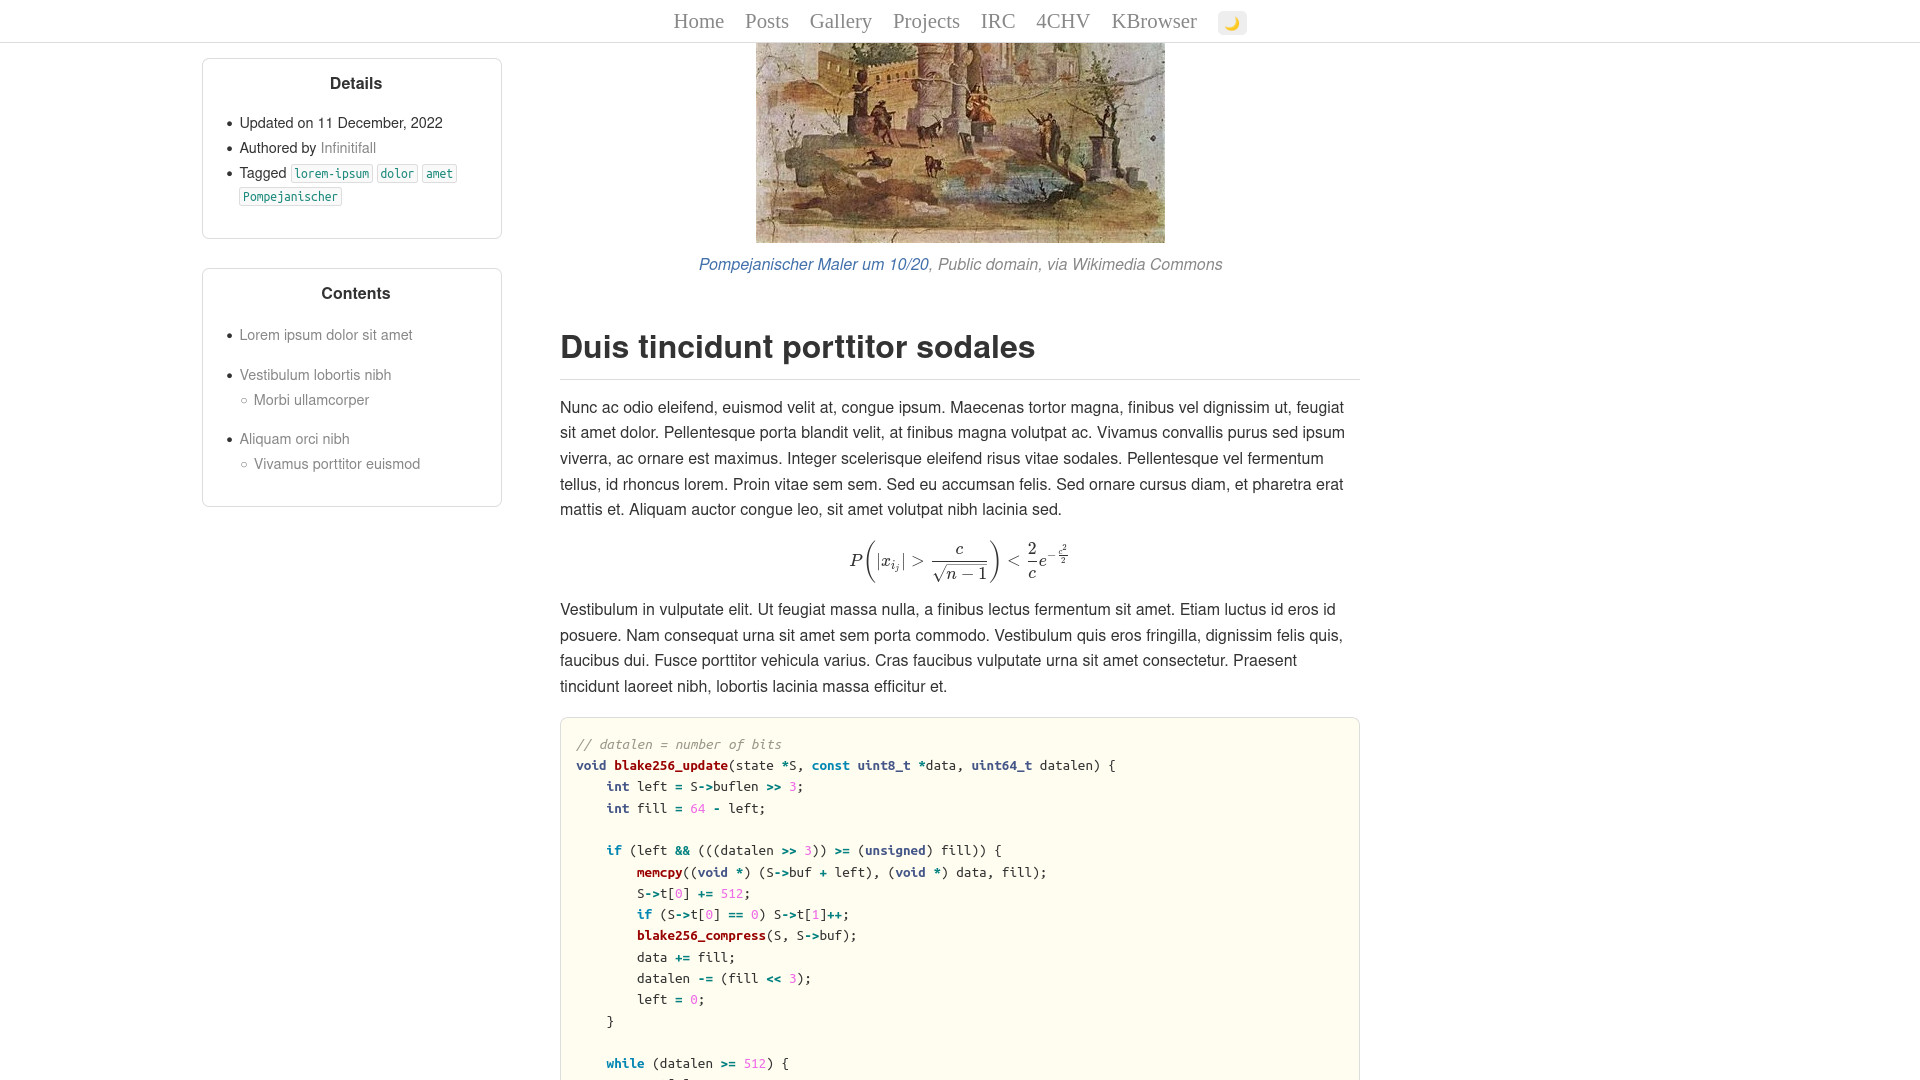
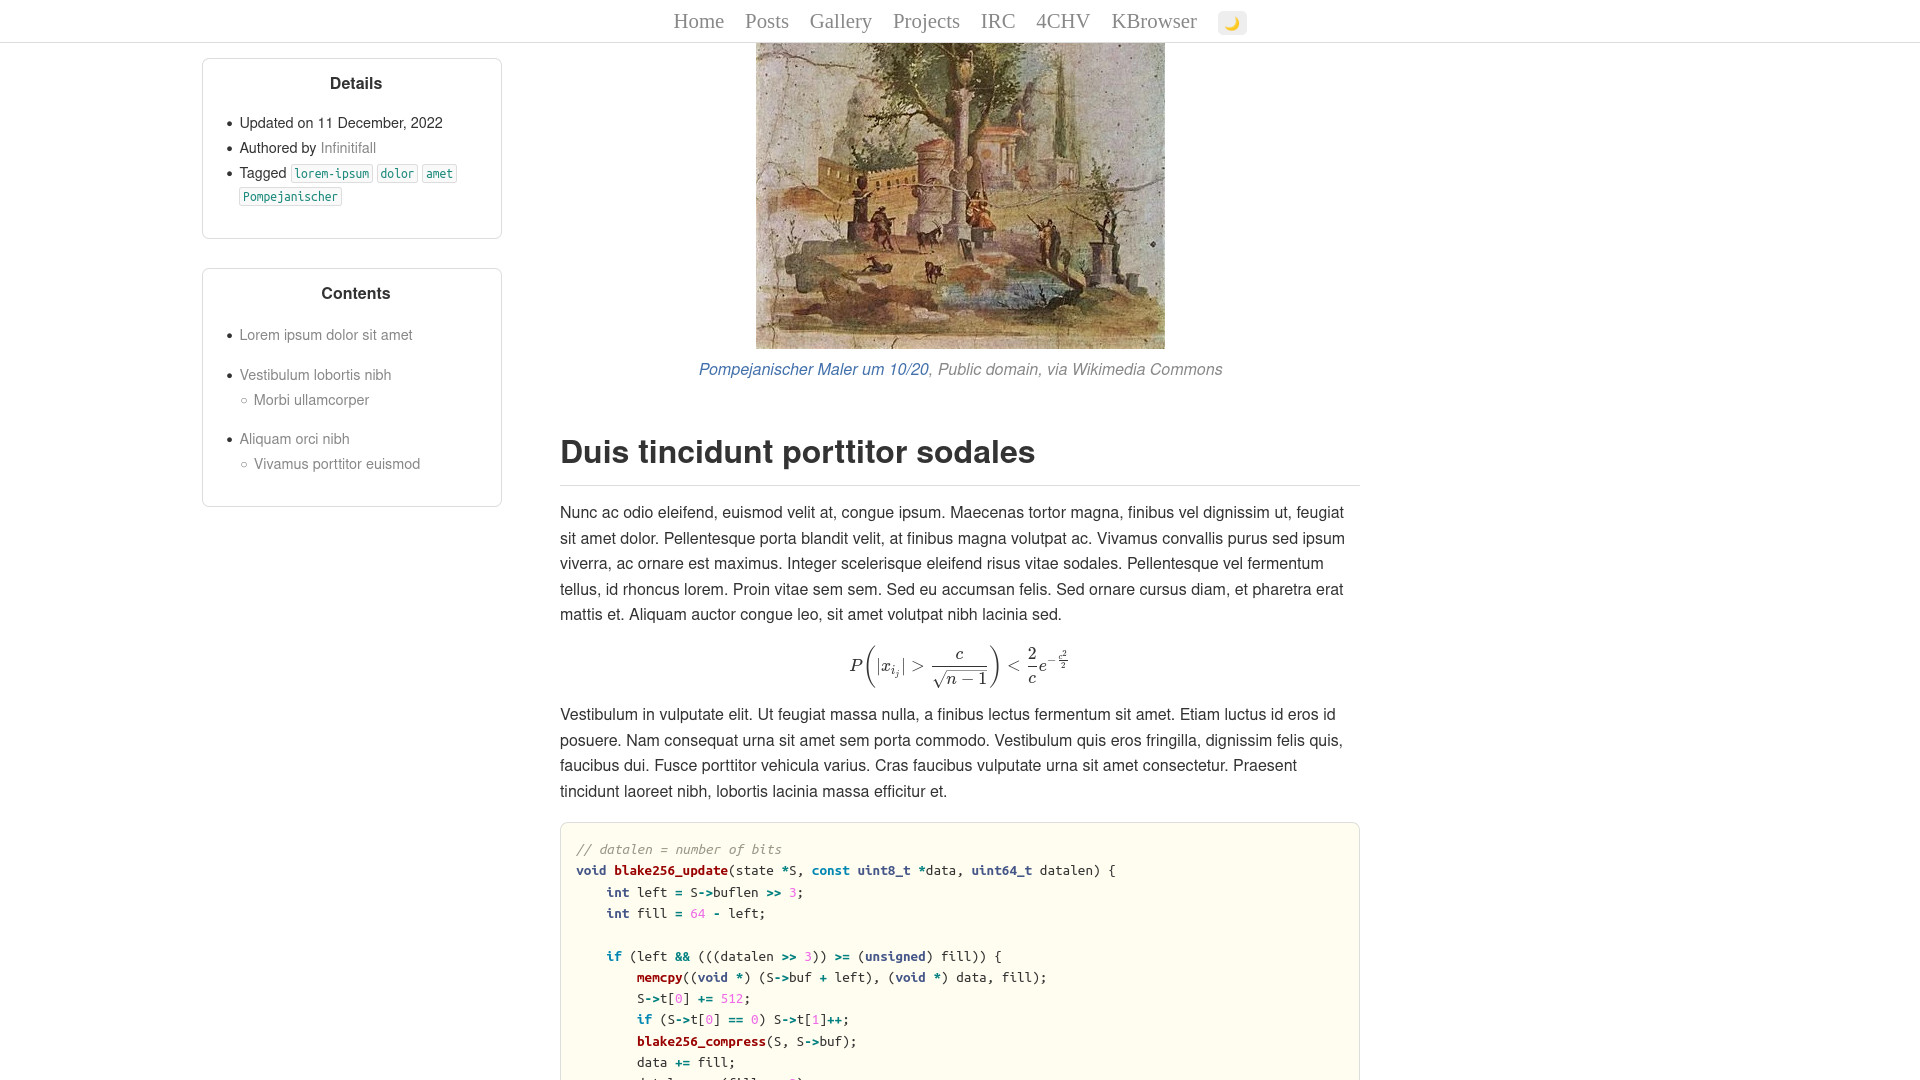
further refined dark theme

Changed region(s): [[0.2812, 0.0306, 0.6875, 1.0]]

diff --git a/assets/scss/malis/_layout.scss b/assets/scss/malis/_layout.scss
@@ -19,12 +19,12 @@
 
   .wrapper-top {
     padding: 0.2em 0;
-    border-bottom: 1px $bg-1 solid;
+    border-bottom: 1px $bg-sidebar-border solid;
     padding-bottom: 0.2em;
 
     position: fixed;
     width: 100%;
-    background-color: $bg-0;
+    background-color: $bg-sidebar;
     top: 0;
     z-index: 1;
 
@@ -57,7 +57,8 @@
     max-width: 100%;
     min-height: 1em;
     padding: 0 3vw;
-    border-top: 1px $bg-1 solid;
+    border-top: 1px $bg-sidebar-border solid;
+    background: $bg-sidebar;
     padding-bottom: 0.1em;
   }
 
@@ -306,6 +307,7 @@
       display: block;
       border: 1px solid $bg-1;
       border-radius: 0.5em;
+      background-color: $bg-sidebar-border;
       padding: 1em 1em;
       margin-bottom: 2em;
       max-width: MIN($content-width, $content-max-width);
@@ -358,7 +360,7 @@
 
   .wrapper-top {
     padding: 0.2em 0;
-    border-bottom: 1px lighten($bg-highlight-dark, 10%) solid;
+    border-bottom: 1px $bg-sidebar-border-dark solid;
     padding-bottom: 0.2em;
 
     font-family: $navbar-font-family-dark;
@@ -366,7 +368,7 @@
 
     position: fixed;
     width: 100%;
-    background-color: $bg-highlight-dark;
+    background-color: $bg-sidebar-dark;
     top: 0;
     z-index: 1;
 
@@ -396,8 +398,8 @@
     max-width: 100%;
     min-height: 1em;
     padding: 0 3vw;
-    border-top: 1px transparent solid;
-    background: $bg-highlight-dark;
+    border-top: 1px $bg-sidebar-border-dark solid;
+    background: $bg-sidebar-dark;
     padding-bottom: 0.1em;
   }
 
@@ -645,7 +647,7 @@
     @media only screen and (max-width: $screen-width-inflection-dark) {
       display: block;
       border: 1px transparent solid;
-      background-color: $bg-highlight-dark;
+      background-color: $bg-sidebar-border-dark;
       border-radius: 0.5em;
       padding: 1em 1em;
       margin-bottom: 2em;

diff --git a/assets/scss/malis.scss b/assets/scss/malis.scss
@@ -181,8 +181,8 @@ $katex-font-size-dark:  $base-font-size * 1.1;
 $heading-text-dark: #ccc;
 $base-text-dark: #ccc;
 $grey-text-dark: #666;
-$link-1-dark: #67b9ce;
-$link-2-dark: #67b9ce;
+$link-1-dark: #6ed3c5;
+$link-2-dark: #6ed3c5;
 
 $code-1-dark: #ce71ba;
 $bg-code-dark:#1a1a1a;
@@ -190,15 +190,15 @@ $bg-code-dark:#1a1a1a;
 $code-tag-dark: #7ac5bf;
 $bg-tag-dark:#1a1a1a;
 
-$bg-0-dark:   #111;
-$bg-1-dark:   #1c1c1c;
-$bg-highlight-dark:   #0b0b0b;
+$bg-0-dark:   #1c1c1c;
+$bg-1-dark:   #333;
+$bg-highlight-dark:   #151515;
 
-$bg-quote-dark:   #0b0b0b;
-$bg-table-dark: #0b0b0b;
+$bg-quote-dark:   #151515;
+$bg-table-dark: #151515;
 $bg-pre-border-dark: #222;
-$bg-sidebar-dark: #0f0f0f;
-$bg-sidebar-border-dark: #1a1a1a;
+$bg-sidebar-dark: #1a1a1a;
+$bg-sidebar-border-dark: #222;
 
 $button-1-dark: #9371b8;
 $button-1-bg-dark: #111;

diff --git a/assets/scss/malis/_base.scss b/assets/scss/malis/_base.scss
@@ -60,12 +60,8 @@
     border-collapse: collapse;
   }
 
-  tr:nth-child(even) {
+  tr {
     background-color: $bg-table;
-  }
-
-  tr:nth-child(odd) {
-    background-color: lighten($bg-table, 2.5%);
   }
 
   thead > tr {
@@ -264,11 +260,7 @@
     border-collapse: collapse;
   }
 
-  tr:nth-child(even) {
-    background-color: lighten($bg-table-dark, 5%);
-  }
-
-  tr:nth-child(odd) {
+  tr {
     background-color: $bg-table-dark;
   }
 
@@ -298,7 +290,7 @@
   pre {
     overflow-x: auto;
     line-height: $code-line-height-dark;
-    border: 1px transparent solid;
+    border: 1px $bg-pre-border-dark solid;
 
     > code {
       color: $code-1-dark;
